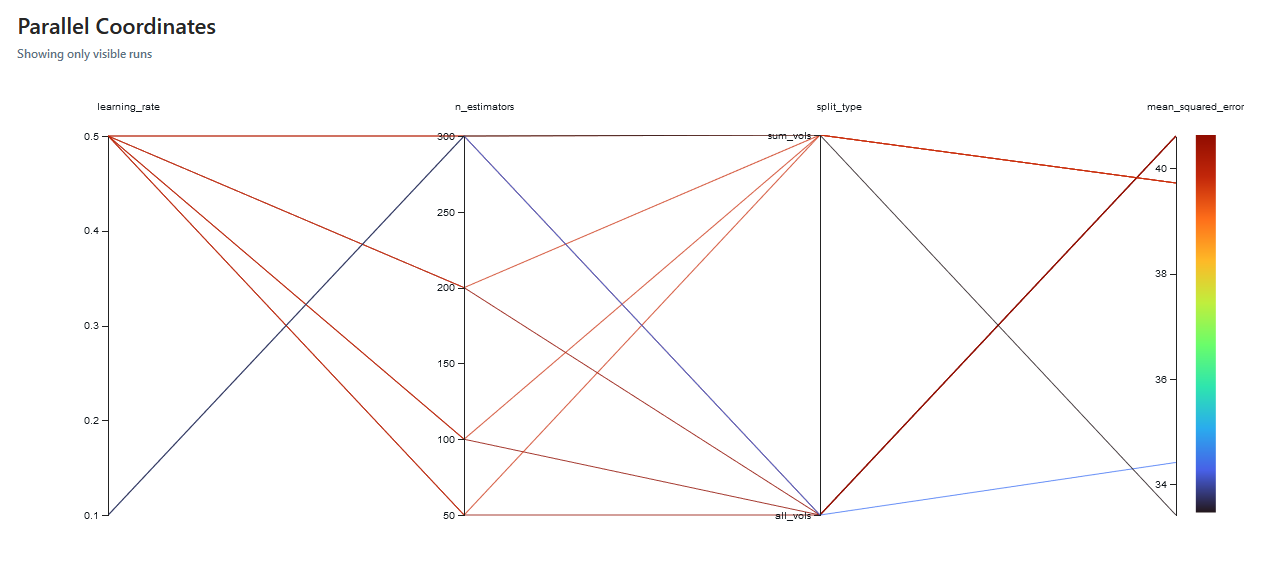
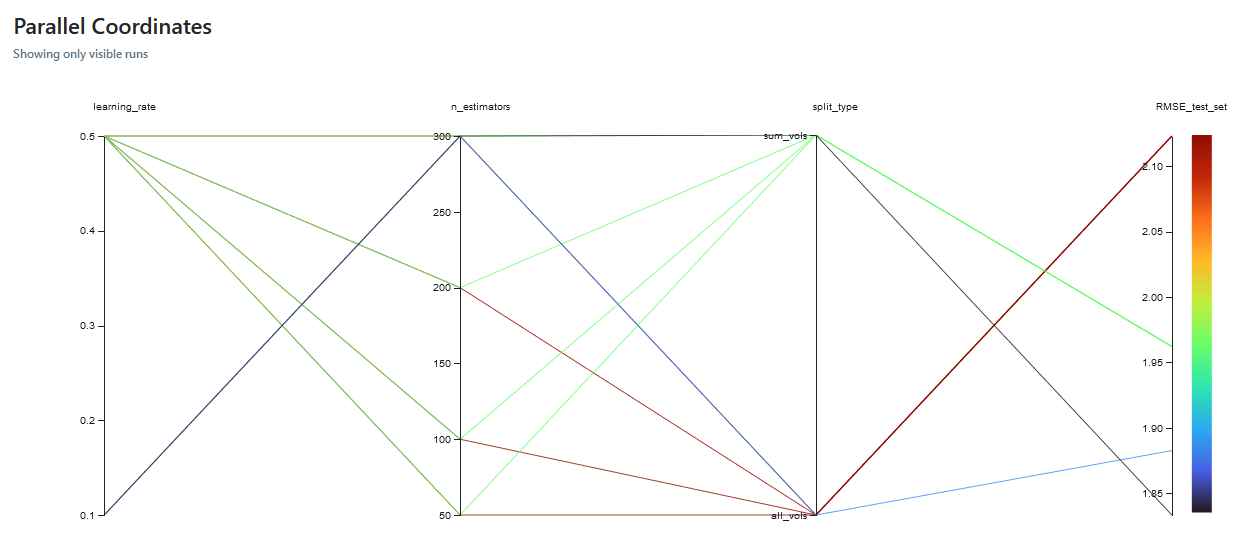
readme

diff --git a/README.md b/README.md
@@ -160,13 +160,22 @@ Accessing http://127.0.0.1:5000/ we can see the experiments ran with mlflow.
   
 MLflow provide tools to create graphs, specially to display the combination of the parameters related to a metric.  
 ![MLflow Graph](graph_mlflow.png)  
+
+The best model can be seem in this line:  
+![MLflow Graph Opt](opt_model.png)  
   
 By this experiment, the best pair of parameters was:  
 - Learning Rate: 0.1  
 - N_estimators: 300  
 - Split type: Sum of Volumes  
   
-Mean Squared Error resulted in the test set was 33.41.  
+Root Mean Squared Error resulted in the test set was 1.833.  
+  
+Morever, MLflow logs some artefacts of the experiment, such as portion of input data and the output, schema of the dataset:  
+![artifacts](artifacts.png)  
+  
+It also provides a way to implement the model with spark:  
+![Spark](spark.png)  
   
 ## Conclusion:  
 MLflow is a powerful tool for monitoring model performance, tuning hyperparameters, comparing models, and evaluating data drift that could degrade model performance, necessitating model re-training.  
